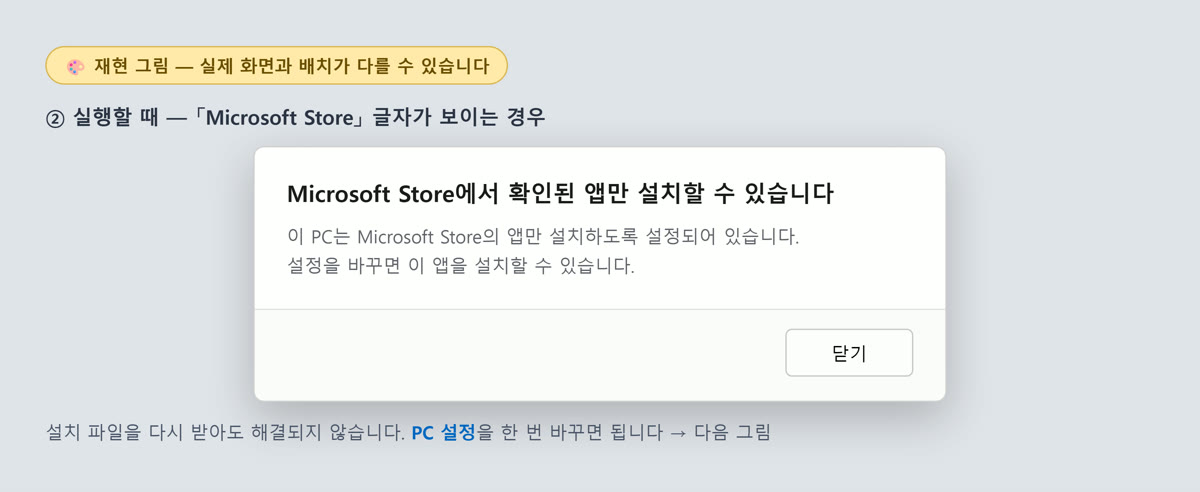
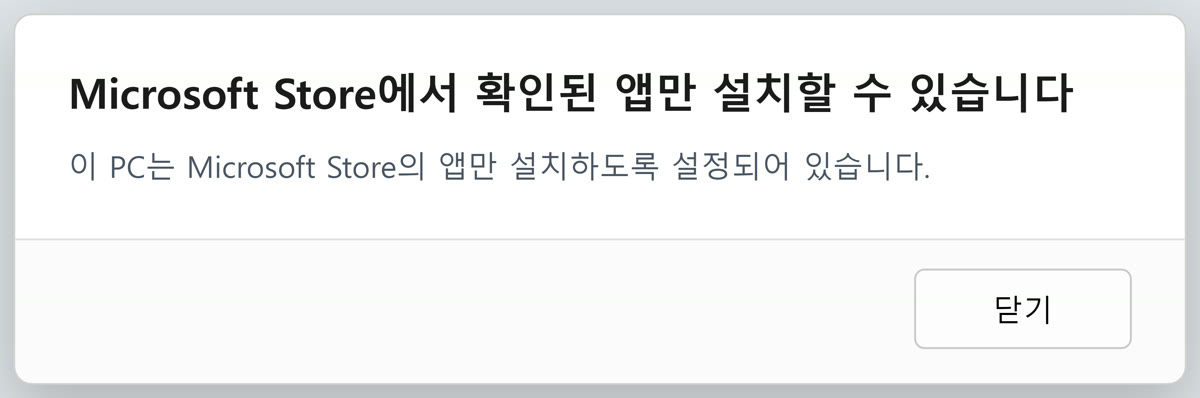
fix: 「추가로 알면 좋은 것」 가독성 — 주제마다 카드로 끊고 위계를 바로잡는다
사용자 지적: 이 절이 특히 눈에 안 들어온다. 찍어 보니 네 가지가 겹쳐 있었다.
- 주제 제목이 본문과 같은 16px 이라 굵기만으로 구분됐다 → 18.6px 흰색으로,
  왼쪽에 파란 막대를 붙였다.
- 네 주제가 경계 없이 한 덩어리로 흘렀다 → 주제마다 카드(테두리+배경)로 끊었다.
- 「대처」 같은 하위 제목이 본문보다 흐려 위계가 거꾸로였다 → 파란 라벨로 올렸다.
- 그림 안에 제목·「재현 그림」 배지가 박혀 있어 아래 설명과 중복됐고, 그림 속
  번호(②③)는 순서를 바꾸기 전의 옛 번호였다 → 창만 있는 판으로 교체했다.

검증 2회: 사실 대조·금지선·내부문구·절 번호·상호참조·태그 균형 전부 통과,
실 Chrome 에서 이미지 5/5·로드 실패 0·JS 예외 0·데스크톱/모바일 가로 스크롤 없음.

diff --git a/install-guide.html b/install-guide.html
@@ -70,6 +70,18 @@ td{padding:11px 12px 11px 0;border-bottom:1px solid #222c47;vertical-align:top;c
 td b{color:#fff}
 tr:last-child td{border-bottom:0}
 
+
+/* 「추가로 알면 좋은 것」 — 주제마다 카드로 끊는다. 한 덩어리로 흐르면 눈이 길을 잃는다. */
+.extra{border:1px solid #2b3757;border-radius:14px;background:rgba(13,21,38,.55);
+       padding:24px 26px;margin:20px 0}
+.extra .top{display:flex;align-items:flex-start;gap:12px;margin:0 0 6px}
+.extra .top::before{content:"";flex:0 0 auto;width:5px;height:26px;border-radius:3px;
+                    background:#7b93ff;margin-top:3px}
+.extra .top h3{margin:0;font-size:1.16rem;color:#fff;line-height:1.4}
+/* 하위 라벨은 본문보다 흐리게 하지 않는다 — 위계가 거꾸로 보인다. */
+.lab{margin:22px 0 8px;font-size:.82rem;font-weight:700;letter-spacing:.07em;color:#8fa6ff}
+.extra figure{margin:16px 0 4px}
+.extra ol,.extra ul{padding-left:20px}
 footer{margin-top:60px;padding-top:22px;border-top:1px solid #222c47;
        color:#5d6781;font-size:.78rem}
 footer a{color:#7b8199}
@@ -158,13 +170,15 @@ footer a{color:#7b8199}
   <h2 style="border-top:2px solid #3a4668">추가로 알면 좋은 것</h2>
   <p class="small">아래는 <b>드물게</b> 생기는 경우입니다. 위 두 단계로 설치가 끝나셨다면 읽지 않으셔도 됩니다.</p>
 
-<h3 style="margin-top:30px">받을 때 「일반적으로 다운로드되지 않는 파일」이라고 나오면</h3>
+  <section class="extra">
+    <div class="top"><h3>받을 때 「일반적으로 다운로드되지 않는 파일」이라고 나오면</h3></div>
+
   <p class="small">아직 이 경우가 보고된 적은 없습니다. 혹시 겪으시면 아래대로 하시면 됩니다.</p>
   <p>받는 도중 브라우저가 이런 뜻의 안내를 띄울 수 있습니다.</p>
   <div class="quote">「일반적으로 다운로드되지 않는 파일입니다」 · 「이 파일은 안전하지 않을 수 있습니다」</div>
   <p>파일이 크고 아직 배포 이력이 적어서 나오는 안내입니다.
     <b>문구와 단추 이름은 브라우저마다 다릅니다.</b></p>
-  <h3 style="color:#aab4cf;font-size:.94rem">대처 — 받은 파일 목록에서 「계속」을 고릅니다</h3>
+  <p class="lab">대처 — 받은 파일 목록에서 「계속」을 고릅니다</p>
   <ol>
     <li>브라우저 <b>오른쪽 위</b>의 <b>아래쪽 화살표(↓) 모양 아이콘</b>을 누릅니다.
       받은 파일 목록이 열립니다
@@ -177,8 +191,11 @@ footer a{color:#7b8199}
   </ol>
   <p class="small">이 화면이 실제로 나오면 <b>사진으로 찍어 강의 카톡방에 남겨 주세요.</b>
     다음 분들을 위해 이 안내에 실제 화면을 넣겠습니다.</p>
+  </section>
 
-  <h3 style="margin-top:30px">「Microsoft Store」 글자가 보이면</h3>
+  <section class="extra">
+    <div class="top"><h3>「Microsoft Store」 글자가 보이면</h3></div>
+
   <figure>
     <img src="guide/02-스토어제한.jpg" alt="Microsoft Store에서 확인된 앱만 설치할 수 있습니다">
     <figcaption>재현 그림 — 실제 화면과 배치가 다를 수 있습니다</figcaption>
@@ -189,7 +206,7 @@ footer a{color:#7b8199}
     <img src="guide/03-설정바꾸기.jpg" alt="설정 → 앱 → 고급 앱 설정 → 앱을 가져올 위치 선택">
     <figcaption>재현 그림 — 설정에서 바꿀 곳</figcaption>
   </figure>
-  <h3 style="color:#aab4cf;font-size:.94rem">대처</h3>
+  <p class="lab">대처</p>
   <ol>
     <li>키보드에서 <b>Windows 키 + I</b> — 설정 창이 열립니다</li>
     <li>왼쪽에서 <b>앱</b> 을 누릅니다</li>
@@ -197,7 +214,7 @@ footer a{color:#7b8199}
     <li>맨 위 <b>「앱을 가져올 위치 선택」</b> 을 <b>「아무 곳에서나」</b> 로 바꿉니다</li>
     <li>설정 창을 닫고 설치 파일을 다시 실행합니다</li>
   </ol>
-  <h3 style="color:#aab4cf;font-size:.94rem">이렇게 해도 안 될 때</h3>
+  <p class="lab">이렇게 해도 안 될 때</p>
   <ul>
     <li><b>3번 「고급 앱 설정」이 안 보이면</b> — Windows 버전에 따라 <b>앱 → 앱 및 기능</b> 안에 있습니다</li>
     <li><b>회색으로 잠겨 바꿀 수 없으면</b> — 회사·학교에서 관리하는 PC 입니다. 해당 조직의 IT 담당자를 통해야 합니다</li>
@@ -205,8 +222,11 @@ footer a{color:#7b8199}
       Microsoft Store 에서 「S 모드 해제」(무료)를 해야 설치할 수 있는데,
       <b>한 번 해제하면 되돌릴 수 없습니다.</b> 진행 전에 담당자와 확인해 주세요</li>
   </ul>
+  </section>
 
-  <h3 style="margin-top:34px">받은 파일이 보이지 않을 때</h3>
+  <section class="extra">
+    <div class="top"><h3>받은 파일이 보이지 않을 때</h3></div>
+
   <p>다운로드한 파일이 목록에도 폴더에도 없으면, 백신이 따로 보관(격리)한 경우일 수 있습니다.</p>
   <div class="warn">
     <b>백신 설정을 바꾸지 마세요.</b><br>
@@ -217,8 +237,11 @@ footer a{color:#7b8199}
       <li>백신이 띄운 <b>알림 화면</b> — 사진으로 찍어 주시면 가장 좋습니다</li>
     </ul>
   </div>
+  </section>
 
-  <h3 style="margin-top:34px">설치 파일이 맞는지 확인하기 (선택)</h3>
+  <section class="extra">
+    <div class="top"><h3>설치 파일이 맞는지 확인하기 (선택)</h3></div>
+
   <p>받은 파일이 배포된 것과 같은지 직접 확인하실 수 있습니다.</p>
   <ol>
     <li>설치 파일이 있는 폴더에서 <b>주소창에 <code>powershell</code></b> 을 입력하고 Enter</li>
@@ -227,8 +250,9 @@ footer a{color:#7b8199}
 <pre><code>Get-FileHash -Algorithm SHA256 -LiteralPath ".\UV-Global-Reaction-Editor_1.2.8_x64-setup.exe"</code></pre>
   <p>나온 값이 아래와 같으면 정상입니다.</p>
 <pre><code class="hash">b62f7363dc2b161dc946023ec7ae0c41cf2064333b383295d47a5fbbff28e512</code></pre>
+  </section>
 
-  <footer>© RAION · <a href="./">다운로드 페이지</a>
+<footer>© RAION · <a href="./">다운로드 페이지</a>
     · <a href="https://raion-log.github.io/uv/">UV 제품 허브</a></footer>
 </main>
 </body>
